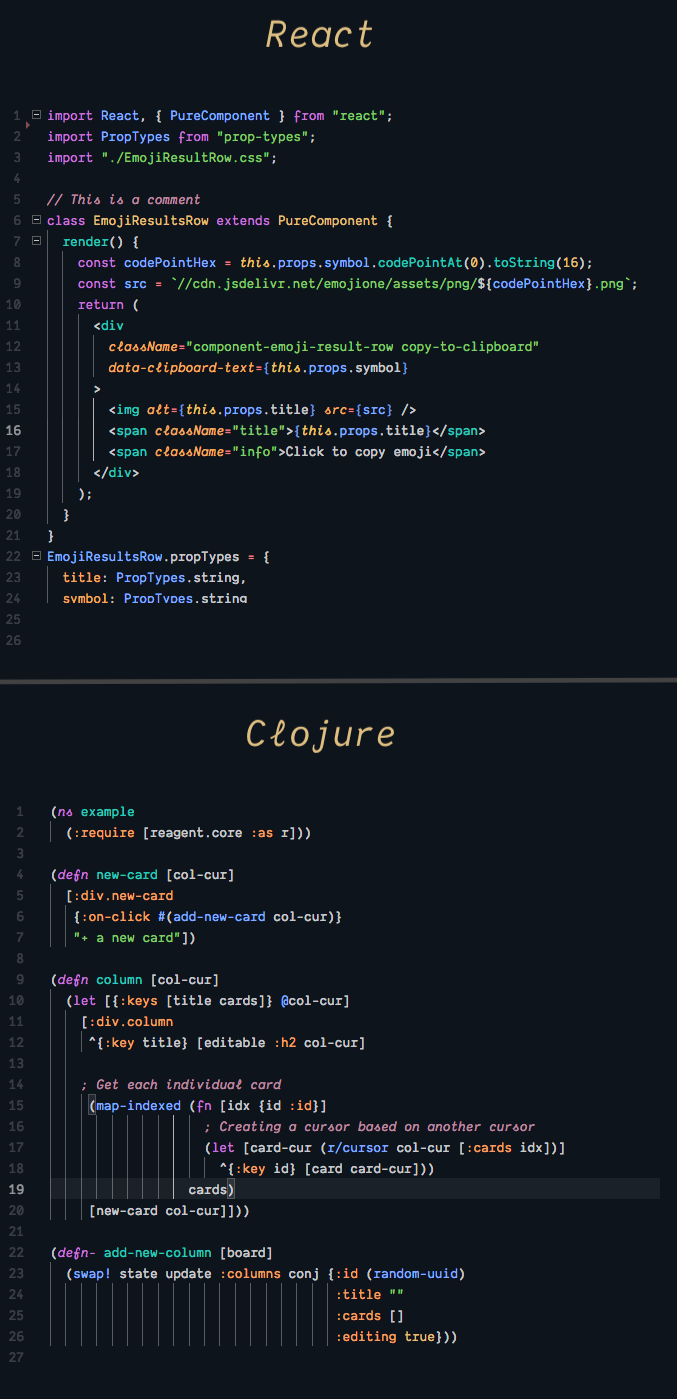
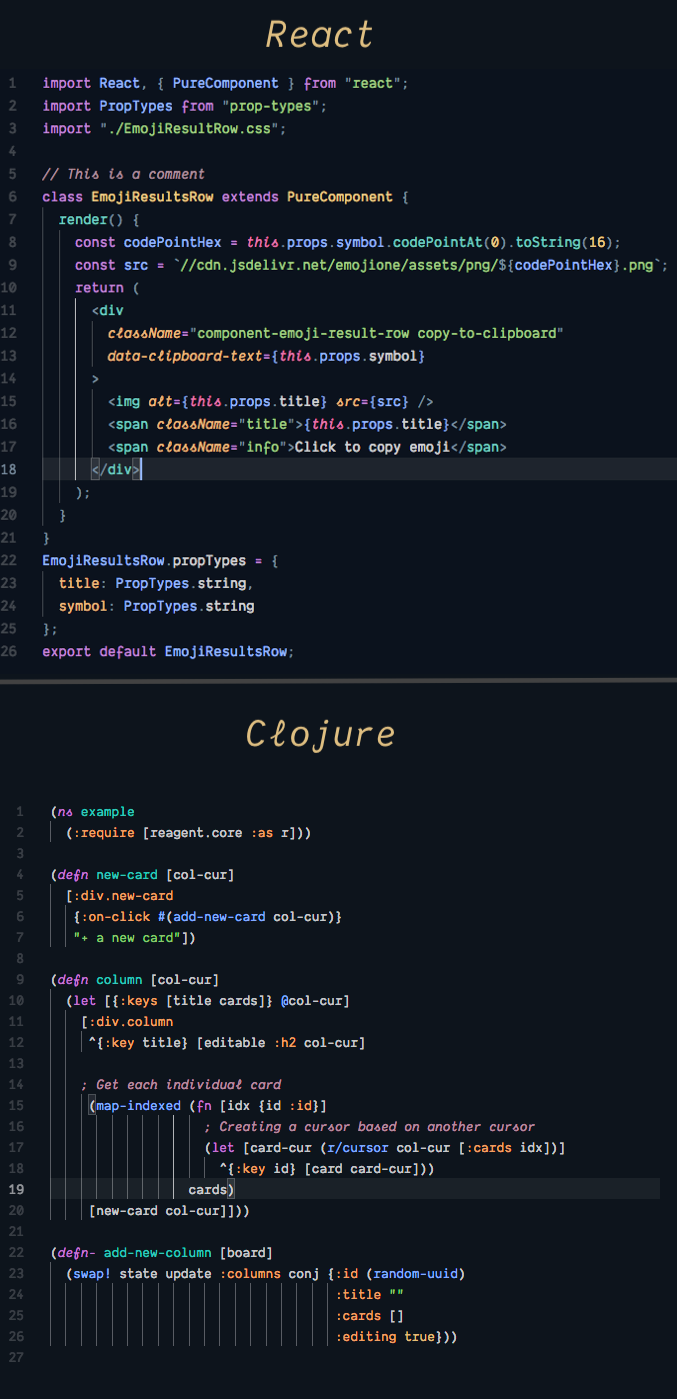
Big update

Changed region(s): [[0.062, 0.0307, 0.9616, 0.4918], [0.0, 0.0615, 0.031, 0.4918]]

diff --git a/color-variables.scss b/color-variables.scss
@@ -1,8 +1,7 @@
 $blue: #88abf9;
 $purple: #ba7bcc;
 $dark-violet: #a28191;
-$pink: #e467a0;
-$yellow: #dfbf81;
+$pink: #e16ba0;
 $bright-yellow: #e8c37d;
 $green: #98c379;
 $orange: #E6A26F;
@@ -13,6 +12,7 @@ $white: #ffffffc5;
 $soft-white: #ffffffad;
 $white-glow: #ffffff2f;
 $transparent-white: #ffffff0e;
+$transparent: #ffffff00;
 $black: #0E131B;
 $soft-black: #0F131A;
 $transparent-black: #00000050;
@@ -23,7 +23,8 @@ $lucid-yellow: #dfbf81d5;
 $lucid-blue: #88abf9d5;
 $lucid-teal: #64c4bad5;
 
+$statusbar-violet: #ECBDCEd9;
 //$light-red: #DE8385;
 // $red: #e06c75;
 // $golden: #d0ac6c;
-// old yellow #E0C084
+// $yellow: #dfbf81;

diff --git a/CHANGELOG.md b/CHANGELOG.md
@@ -1,6 +1,18 @@
 # Change Log
 All notable changes to the "after-dark" extension will be documented in this file.
 
+## **0.2.0** - 2018-7-27
+
+### New
+- Dimming of operators, focus on the data
+- Colors for constants and dom variables
+
+### Changed
+- Lot's of tweaking around with colors
+
+### Changed
+- Yellow sparkling Golden
+
 ## **0.1.21** - 2018-7-26
 
 
